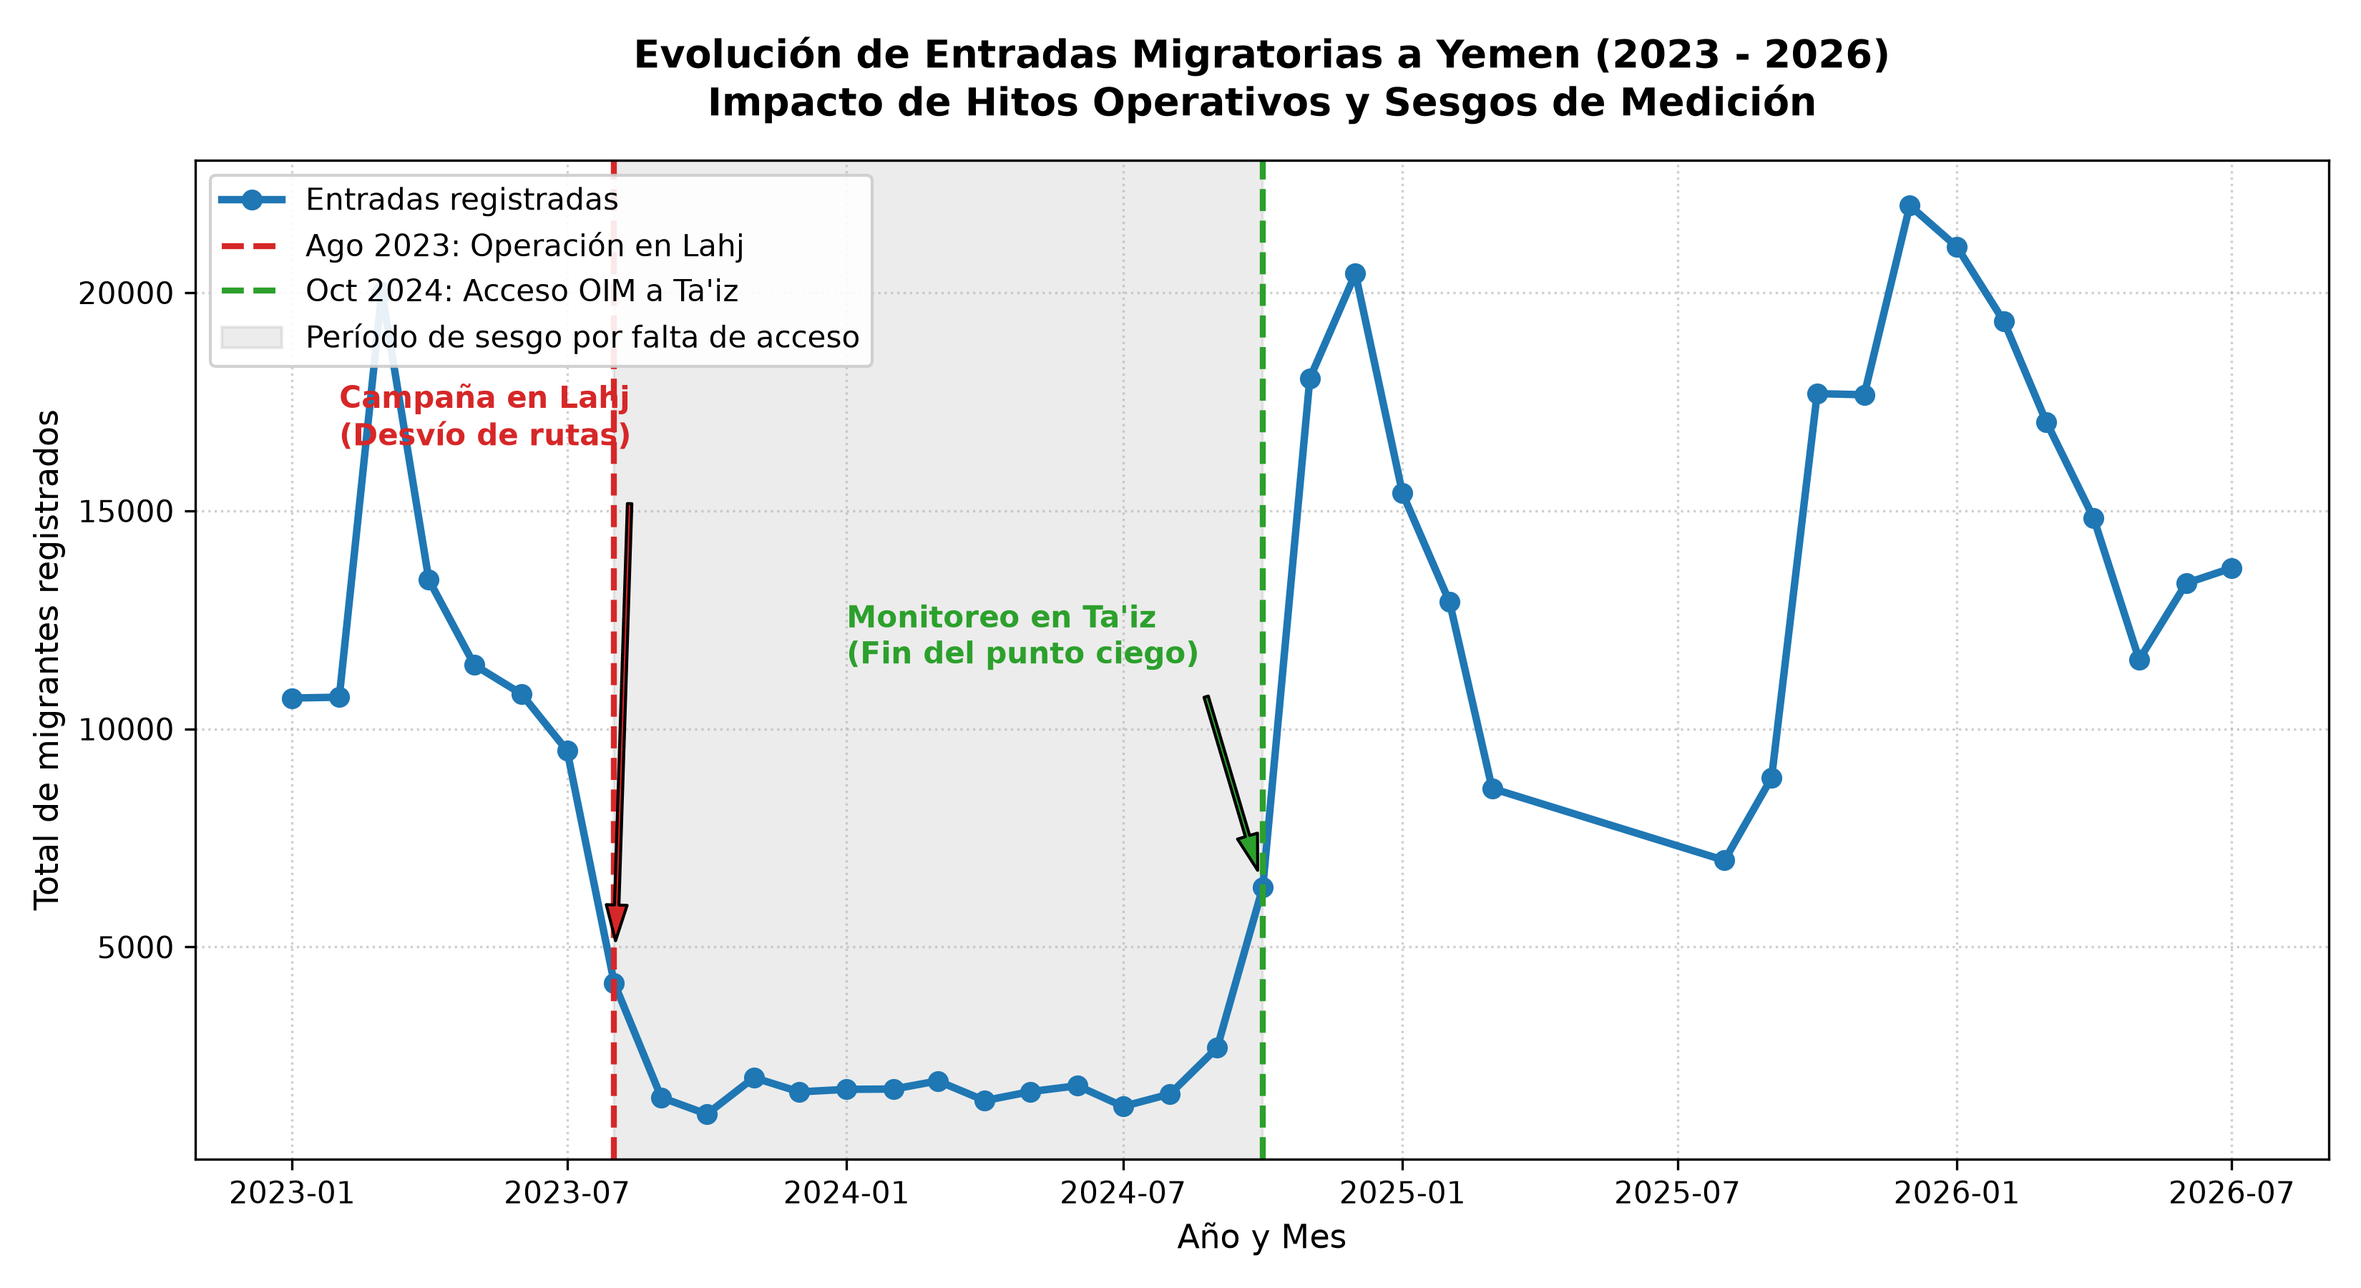
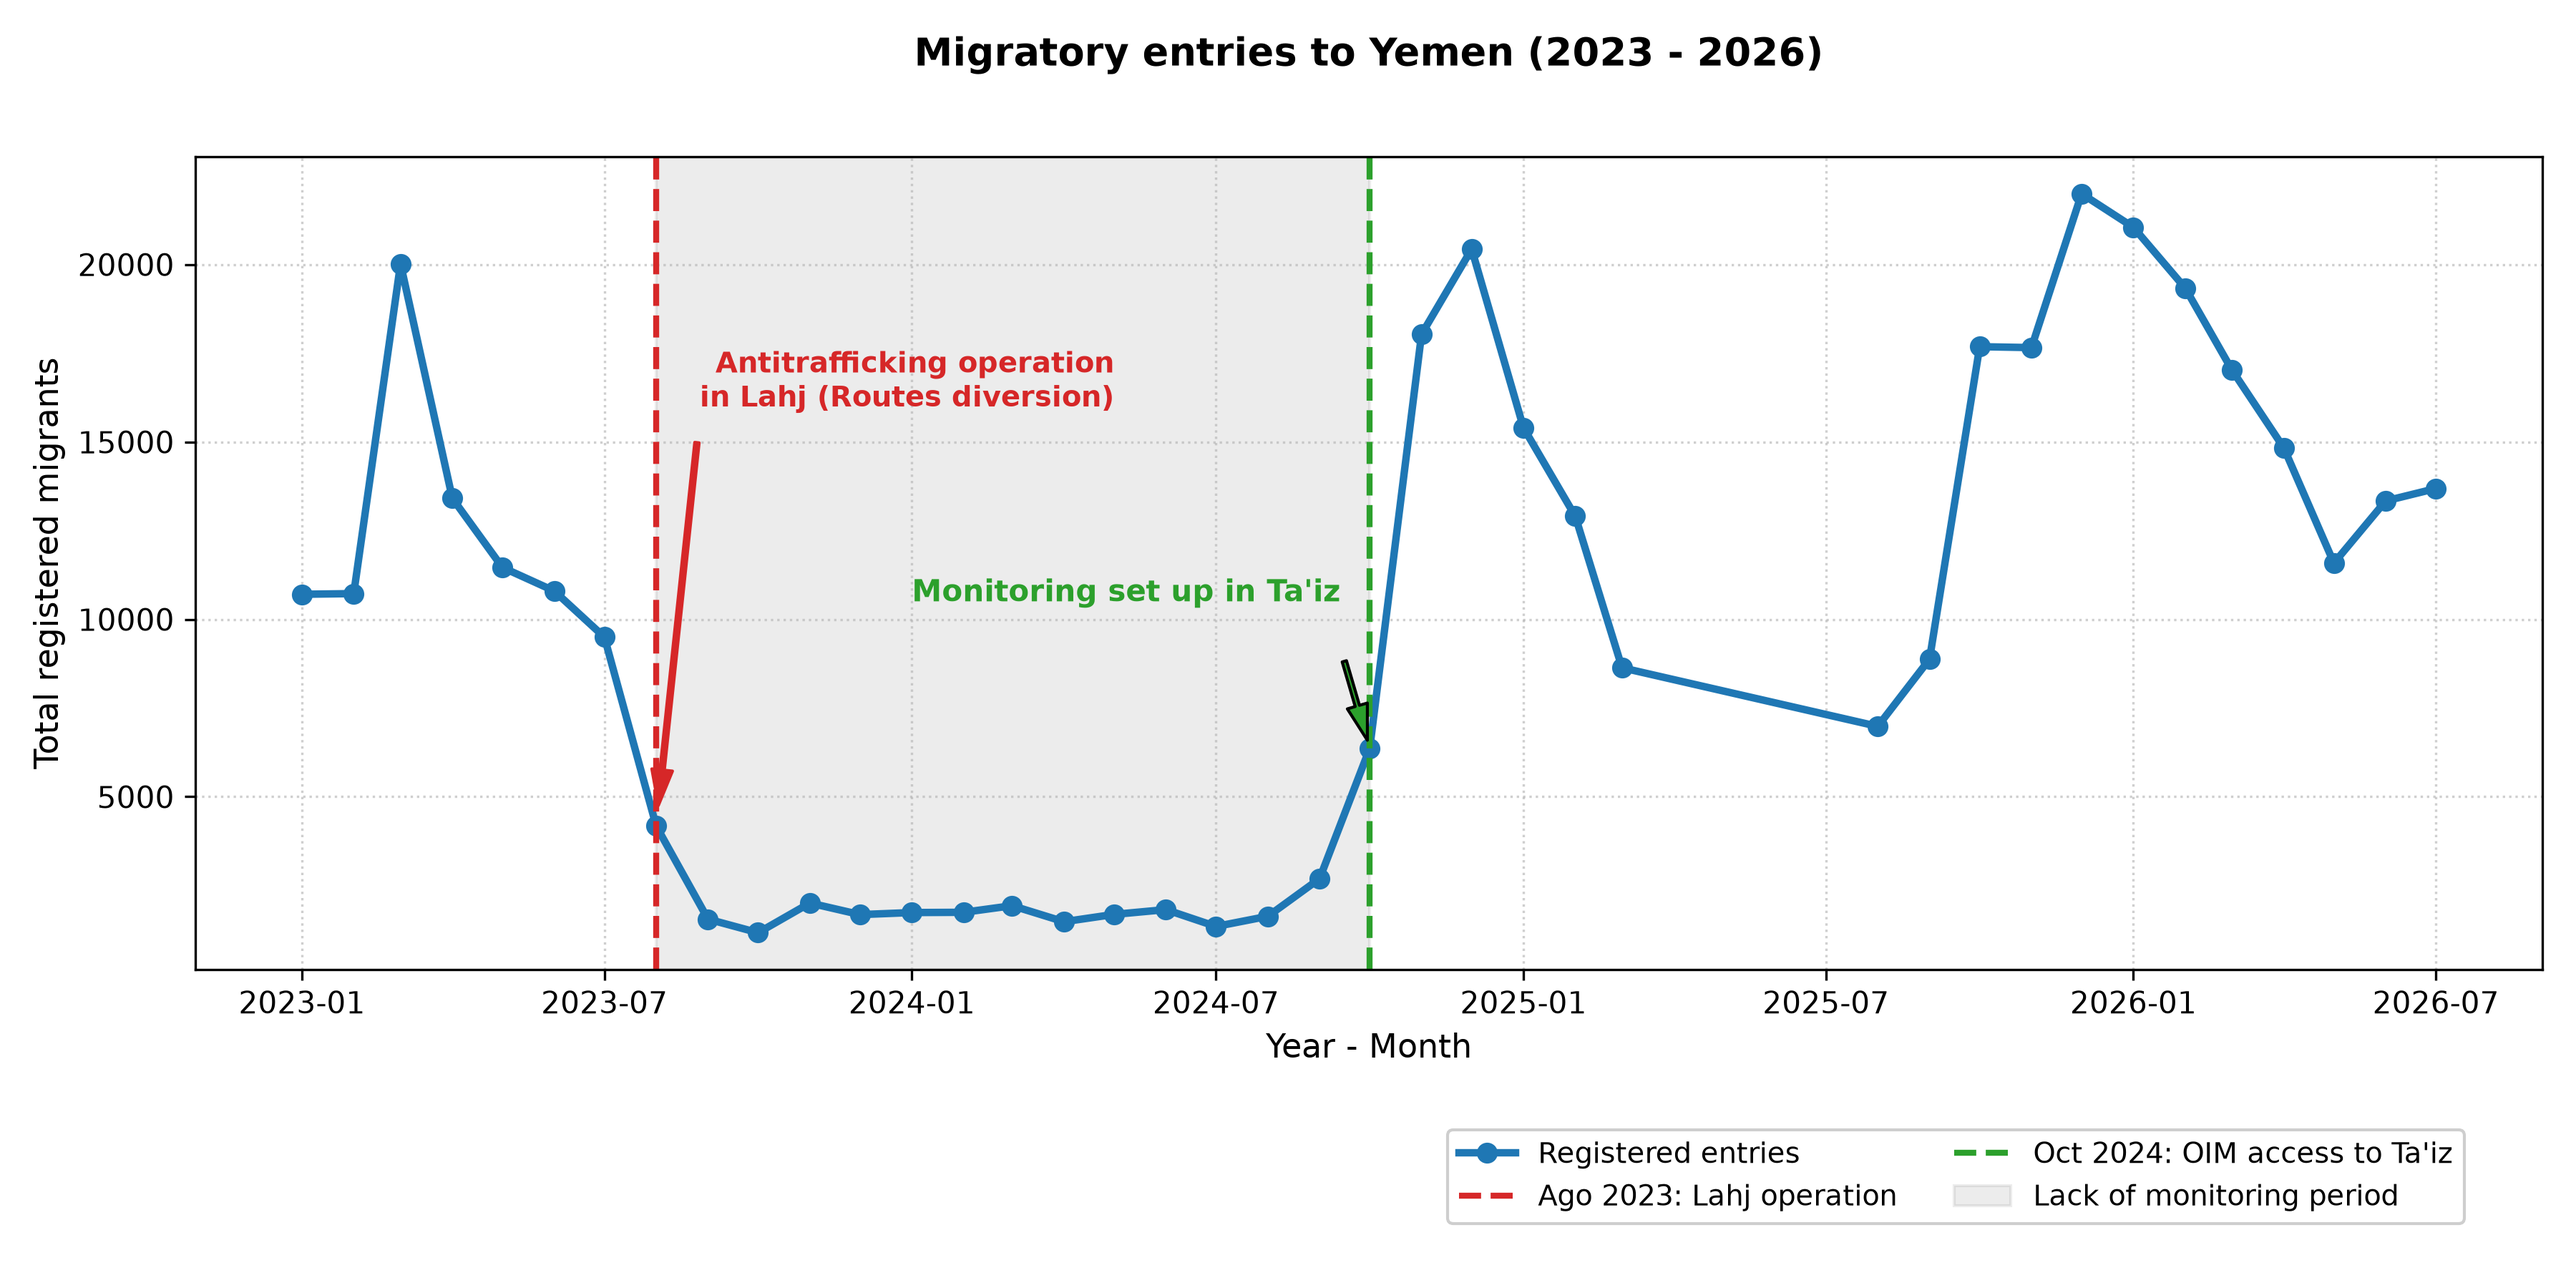
Add files via upload

diff --git a/hello yemen/plot1.py b/hello yemen/plot1.py
@@ -42,7 +42,7 @@ ax.plot(
     marker='o',
     linewidth=2.5,
     color='#1f77b4',
-    label='Entradas registradas',
+    label='Registered entries',
 )
 
 date_lahj = pd.to_datetime('2023-08-01')
@@ -54,25 +54,25 @@ ax.axvline(
     color='#d62728',
     linestyle='--',
     linewidth=2,
-    label='Ago 2023: Operación en Lahj',
+    label='Ago 2023: Lahj operation',
 )
 ax.axvline(
     x=date_taiz,
     color='#2ca02c',
     linestyle='--',
     linewidth=2,
-    label='Oct 2024: Acceso OIM a Ta\'iz',
+    label='Oct 2024: OIM access to Ta\'iz',
 )
 ax.axvspan(
     date_lahj,
     date_taiz,
     color='gray',
     alpha=0.15,
-    label='Período de sesgo por falta de acceso',
+    label='Lack of monitoring period',
 )
 
 ax.annotate(
-    'Operación antitráfico\nen Lahj (Desvío de rutas)',
+    'Antitrafficking operation\nin Lahj (Routes diversion)',
     xy=(
         date_lahj,
         4176,
@@ -95,7 +95,7 @@ ax.annotate(
 )
 
 ax.annotate(
-    'Monitoreo en Ta\'iz\n(Fin del punto ciego)',
+    'Monitoring set up in Ta\'iz\n',
     xy=(date_taiz, 6364),
     xytext=(pd.to_datetime('2024-01-01'), 9500),
     arrowprops=dict(
@@ -107,13 +107,13 @@ ax.annotate(
 )
 
 ax.set_title(
-    'Entradas Migratorias a Yemen (2023 - 2026)\n',
+    'Migratory entries to Yemen (2023 - 2026)\n',
     fontsize=13,
     fontweight='bold',
     pad=15,
 )
-ax.set_xlabel('Año y Mes', fontsize=11)
-ax.set_ylabel('Total de migrantes registrados', fontsize=11)
+ax.set_xlabel('Year - Month', fontsize=11)
+ax.set_ylabel('Total registered migrants', fontsize=11)
 ax.grid(True, linestyle=':', alpha=0.6)
 ax.legend(loc='upper left', frameon=True, facecolor='white', framealpha=0.9)
 
